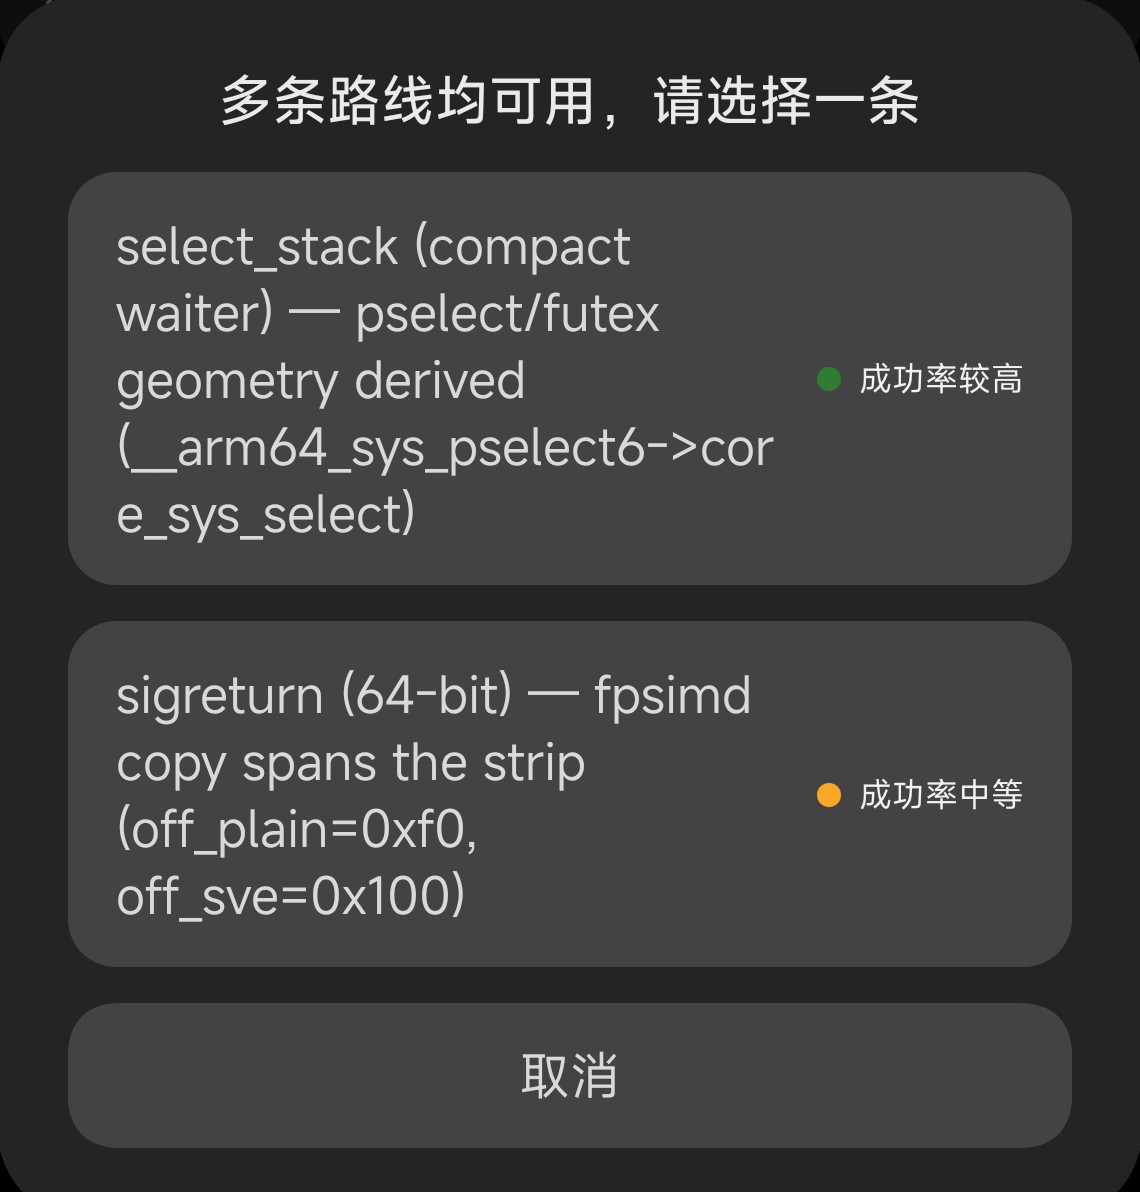
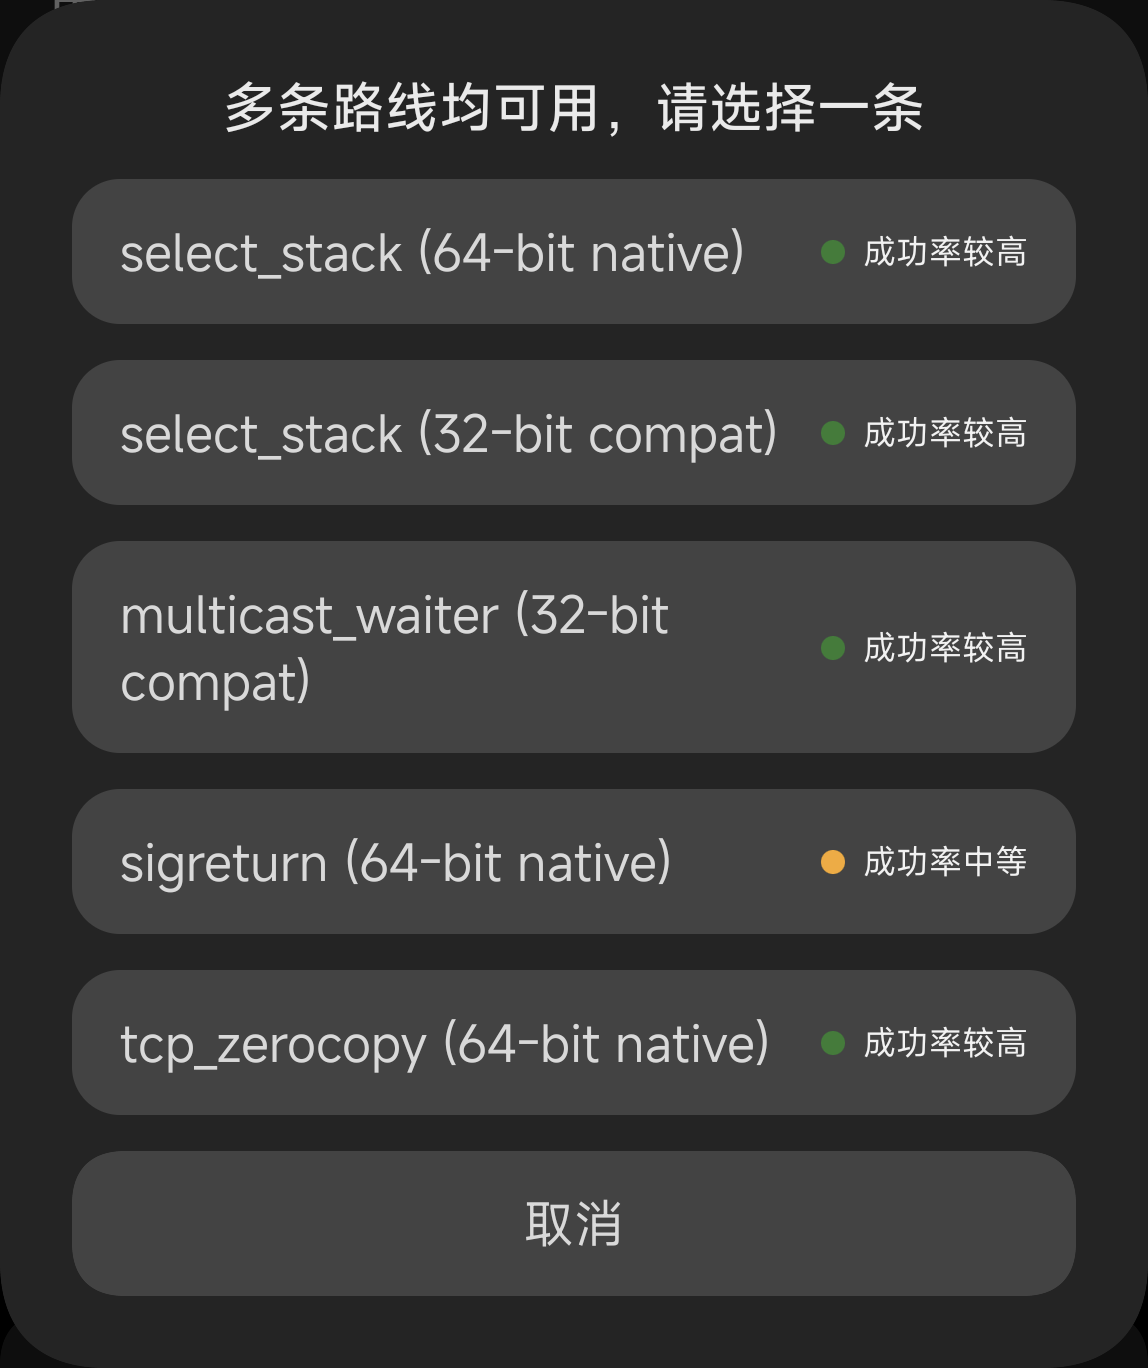
feat(ui): pin a route option to route + carrier; refresh the README
The picker row was `route (waiter shape) — <long derivation reason>`. On a
6.1.138 image (four feasible routes, five rows) the dialog overflowed and
`sigreturn` / `tcp_zerocopy` were unreachable — the miuix OverlayDialog does
not scroll its content. An option is pinned by two fields only: the route and
its carrier, `64-bit native` or `32-bit compat`; the derivation reason moves
to the generation log. All five rows fit.

- RouteDisplay.optionLabel(route, carrier); the geometry/release-derived tags
  and the family helper are gone.
- showRouteDialog logs each option's reason ("result: option …").
- RouteDisplayTest rewritten for the two-field label and an unknown carrier.
- README (both languages): step 6 states the two fields and the route-level
  grade; the 05-route screenshots are recreated (ZH dark, EN light); the EN
  README is synced with the ZH diff (Samsung prerequisites, headings,
  acknowledgements).

Gates: :app:testDebugUnitTest 243/0, :app:assembleDebug build 749. Device:
duchamp 6.1.138, build 749 — five options visible, no clipping.

diff --git a/app/src/test/kotlin/com/ghostlock/app/ui/RouteDisplayTest.kt b/app/src/test/kotlin/com/ghostlock/app/ui/RouteDisplayTest.kt
@@ -5,60 +5,36 @@ import org.junit.Assert.assertNull
 import org.junit.Test
 
 class RouteDisplayTest {
-    private val select236 = "5.10.236-android12-9-00003-gfb24cf99ad97-ab14313284"
-    private val select66 = "6.6.66-android15-8-g29d86c5fc9dd-abogki428889875-4k"
-    private val compat81 = "5.10.81-android12-9-00001-g6cd504626bae-ab8485363"
-    private val tcp61 = "6.1.138-android14-11-g44bda9e8f6e9-ab13792638"
-
     @Test
-    fun `select labels its waiter shape inline`() {
-        val compact = mapOf("waiter_shift" to -2L, "compact_waiter" to 1L)
+    fun `an option label is the route and its carrier, and nothing else`() {
         assertEquals(
-            "select_stack (compact waiter)",
-            RouteDisplay.label("select_stack", compact, select236),
+            "select_stack (64-bit native)",
+            RouteDisplay.optionLabel("select_stack", "native"),
         )
         assertEquals(
-            "select_stack (rb_node waiter)",
-            RouteDisplay.label("select_stack", mapOf("waiter_shift" to -2L), select66),
+            "select_stack (32-bit compat)",
+            RouteDisplay.optionLabel("select_stack", "compat"),
+        )
+        assertEquals(
+            "multicast_waiter (32-bit compat)",
+            RouteDisplay.optionLabel("multicast_waiter", "compat"),
+        )
+        assertEquals(
+            "sigreturn (64-bit native)",
+            RouteDisplay.optionLabel("sigreturn", "native"),
+        )
+        assertEquals(
+            "tcp_zerocopy (64-bit native)",
+            RouteDisplay.optionLabel("tcp_zerocopy", "native"),
         )
     }
 
+    /** The display never invents or hides a carrier the superset accepted. */
     @Test
-    fun `compat is a 32-bit tag, not a spelling of compact`() {
-        val geometry = mapOf(
-            "compat_carrier" to 1L,
-            "waiter_home" to 432L,
-            "select_dst_depth" to 480L,
-            "compact_waiter" to 1L,
-        )
+    fun `an unknown carrier is shown verbatim`() {
         assertEquals(
-            "select_stack (32-bit compat, compact waiter)",
-            RouteDisplay.label("select_stack", geometry, compat81),
-        )
-        // Compact alone never produces the compat tag.
-        assertEquals(
-            "select_stack (compact waiter)",
-            RouteDisplay.label(
-                "select_stack",
-                mapOf("compact_waiter" to 1L),
-                select236,
-            ),
-        )
-    }
-
-    @Test
-    fun `tcp, multicast and sigreturn carry their shape`() {
-        assertEquals(
-            "tcp_zerocopy (compact waiter)",
-            RouteDisplay.label("tcp_zerocopy", mapOf("compact_waiter" to 1L), tcp61),
-        )
-        assertEquals(
-            "multicast_waiter (compact waiter)",
-            RouteDisplay.label("multicast_waiter", mapOf("compact_waiter" to 1L), "5.10.246-gki"),
-        )
-        assertEquals(
-            "sigreturn (64-bit)",
-            RouteDisplay.label("sigreturn", mapOf("waiter_off_plain" to 320L), compat81),
+            "select_stack (future-carrier)",
+            RouteDisplay.optionLabel("select_stack", "future-carrier"),
         )
     }
 

diff --git a/app/src/main/kotlin/com/ghostlock/app/ui/RouteDisplay.kt b/app/src/main/kotlin/com/ghostlock/app/ui/RouteDisplay.kt
@@ -1,34 +1,28 @@
 package com.ghostlock.app.ui
 
 /**
- * Route-picker presentation. Two independent axes are shown inline after the
- * route name:
+ * Route-picker presentation. An option is pinned by exactly two fields: the
+ * route and its carrier. Everything else (the waiter shape, the anchor plan,
+ * the derived geometry) is detail — it stays in the generation log, not in a
+ * row that must also stay readable on a phone.
  *
- * - the waiter shape (`compact_waiter`): the flat waiter that fits the select
- *   fd_set table (5.x and android14-6.1) vs the rb_node shape (6.6/6.12);
- * - the ABI (`compat_carrier`): the armv7 helper's 32-bit `_newselect` park.
- *
- * They are not the same thing and a profile carries both keys independently.
- * "compact" is a waiter layout, never 32-bit; "compat" is the 32-bit route.
- *
- * Grades are a route-level mechanism hint, never a per-kernel claim: the
- * kernel build decides feasibility and geometry (the verdict covers both), and
- * does not change a route's delivery mechanism.
+ * The carrier is the superset's own field: `native` is the 64-bit in-process
+ * carrier, `compat` the armv7 helper's 32-bit one. Grades are a route-level
+ * mechanism hint, never a per-kernel or per-carrier claim: the kernel build
+ * decides feasibility and geometry (the verdict covers both), and does not
+ * change a route's delivery mechanism.
  */
 object RouteDisplay {
-    private const val COMPACT = "compact_waiter"
-    private const val COMPAT = "compat_carrier"
+    /** Two fields, nothing else: `<route> (<carrier>)`. */
+    fun optionLabel(route: String, carrier: String): String =
+        "$route (${carrierLabel(carrier)})"
 
-    fun label(route: String, geometry: Map<String, Long>, release: String?): String {
-        val tags = mutableListOf<String>()
-        if ((geometry[COMPAT] ?: 0L) != 0L) tags += "32-bit compat"
-        when {
-            (geometry[COMPACT] ?: 0L) != 0L -> tags += "compact waiter"
-            route == "select_stack" && familyOf(release) in NON_COMPACT_FAMILIES ->
-                tags += "rb_node waiter"
-        }
-        if (route == "sigreturn") tags += "64-bit"
-        return if (tags.isEmpty()) route else "$route (${tags.joinToString(", ")})"
+    private fun carrierLabel(carrier: String): String = when (carrier) {
+        "native" -> "64-bit native"
+        "compat" -> "32-bit compat"
+        /* An unknown carrier fails open in display only: the option was already
+         * accepted by the superset's feasibility check. */
+        else -> carrier
     }
 
     /**
@@ -47,12 +41,5 @@ object RouteDisplay {
         // reboots); the route-level rate is measured and the failures are real.
         "sigreturn" -> RouteGrade.Medium
         else -> null
-    }
-
-    private val NON_COMPACT_FAMILIES = setOf("6.6", "6.12")
-
-    private fun familyOf(release: String?): String? {
-        val parts = release?.split('.') ?: return null
-        return if (parts.size >= 2) "${parts[0]}.${parts[1]}" else null
     }
 }

diff --git a/app/src/main/kotlin/com/ghostlock/app/ui/GhostlockViewModel.kt b/app/src/main/kotlin/com/ghostlock/app/ui/GhostlockViewModel.kt
@@ -2029,13 +2029,21 @@ class GhostlockViewModel(
         pendingRouteChoices = choices
         pendingRouteOptions = options
         parseDialogStage = ParseDialogStage.Route
+        /* The row is two fields — route and carrier — and nothing else. The
+         * derivation reason is technical detail for the generation log. */
+        choices.forEach { choice ->
+            appendLog(
+                "result: option ${RouteDisplay.optionLabel(choice.route, choice.carrier)}" +
+                    " — ${choice.reason}",
+            )
+        }
         mutableState.update {
             it.copy(
                 dialogVisible = true,
                 dialogType = DialogType.LIST,
                 dialogTitleRes = R.string.parse_route_title,
                 dialogItems = choices.map { choice ->
-                    "${RouteDisplay.label(choice.route, choice.geometry, options?.release)} — ${choice.reason}"
+                    RouteDisplay.optionLabel(choice.route, choice.carrier)
                 },
                 dialogItemResIds = emptyList(),
                 dialogItemGrades = choices.map { choice -> RouteDisplay.grade(choice.route) },

diff --git a/README.md b/README.md
@@ -2,7 +2,8 @@
 
 > 中文: [README_ZH.md](README_ZH.md)
 
-Temporary root for Android kernels that have not yet patched CVE-2026-43499.
+Temporary root for Android kernels that have not yet patched CVE-2026-43499. **Samsung phones must
+also be unpatched for CVE-2026-43284.**
 
 This repository is a fork of [YuKongA/ghostlock-app](https://github.com/YuKongA/ghostlock-app).
 **This branch rebuilds the parts of the pipeline that decide whether a generated profile is
@@ -37,10 +38,6 @@ the real device or in the emulator. The full list is in [`docs/DESIGN.md`](docs/
 
 ## Root success rate
 
-Measured on real phones, one run per fresh boot. The tables were measured with the r11
-release-candidate build and are split into two groups by how much a run depends on a page. When the
-same phone, kernel and route appear on two rows, the two rows are the two carriers of that route.
-
 **Fully page-free**
 
 | Phone | Kernel | Route | Completed | Typical time | Measured |
@@ -72,12 +69,14 @@ same phone, kernel and route appear on two rows, the two rows are the two carrie
 > **You use this app entirely at your own risk.**
 
 - Android 12 or newer.
-- The kernel and its security patch level are not yet patched for CVE-2026-43499.
+- The kernel and its security patch level are not yet patched for CVE-2026-43499. **Samsung phones
+  must also be unpatched for CVE-2026-43284.**
 - A KernelSU-family root manager is installed first: KernelSU, KernelSU-Next, BakaSU (formerly
   ReSukiSU), KowSU, or SukiSU Ultra. Each manager gained temporary-root support in a different
-  version; use the newest one you can.
+  version; use the newest one you can. **Samsung phones must use
+  [this manager](https://github.com/diabl0w/KernelSU).**
 
-## Supported devices
+## Device support
 
 Support is organized by **kernel family**, not by phone model or by a list of individual builds:
 
@@ -127,10 +126,11 @@ Kernels outside these families have no derivation template and are currently out
 
    <img src="docs/images/profile-generation/en/04-physical.png" width="420" alt="The xbl_config prompt on a Qualcomm phone">
 
-6. If the app asks **Multiple routes are available — choose one**, pick from the row descriptions.
-   A route that also has a 32-bit layout appears twice, tagged `64-bit` and `32-bit compat`. The
-   grade on the right is about the route and that choice, not about your kernel; it reads **not
-   measured** when there is no evidence:
+6. If the app asks **Multiple routes are available — choose one**, pick from the rows. Each option
+   is two fields — the route and its carrier. A route that also has a 32-bit layout appears twice,
+   tagged `64-bit native` and `32-bit compat`. The grade on the right is the route's mechanism
+   hint, not a prediction for your kernel or carrier; it reads **not measured** when there is no
+   evidence:
 
    <img src="docs/images/profile-generation/en/05-route.png" width="420" alt="Route selection">
 
@@ -155,7 +155,7 @@ Kernels outside these families have no derivation template and are currently out
 - **Export the log** and attach it to the issue, together with the profile-generation log and the
   attack-run log.
 
-## Why the success rate is higher
+## How we improve the success rate
 
 An exploit has many steps, and a mistake in any one of them lowers the success rate of the whole
 chain. This branch optimizes the following steps:
@@ -184,11 +184,14 @@ chain. This branch optimizes the following steps:
 ## Acknowledgements
 
 This repository is a fork of [YuKongA/ghostlock-app](https://github.com/YuKongA/ghostlock-app),
-Apache License 2.0. Upstream in turn credits:
+with the optional DirtyFrag route adapted from
+[diabl0w/DFRoot](https://github.com/diabl0w/DFRoot), Apache License 2.0. Upstream in turn credits:
 
 - [NebuSec/CyberMeowfia](https://github.com/NebuSec/CyberMeowfia)
 - [JoinChang/ghostlock-oneplus](https://github.com/JoinChang/ghostlock-oneplus)
 - [x-spy/CVE-2026-43499-popsicle](https://github.com/x-spy/CVE-2026-43499-popsicle)
+- [lsposed/lspromise](https://github.com/lsposed/lspromise)
+- [combeng6th/DirtyInit](https://github.com/combeng6th/DirtyInit)
 
 The app also uses [miuix](https://github.com/compose-miuix-ui/miuix),
 [Shizuku](https://github.com/RikkaApps/Shizuku),

diff --git a/README_ZH.md b/README_ZH.md
@@ -2,7 +2,7 @@
 
 > English: [README.md](README.md)
 
-为尚未修补 CVE-2026-43499 漏洞的安卓内核提供临时 root。
+为尚未修补 CVE-2026-43499 漏洞的安卓内核提供临时 root。**三星手机需要同时未修补 CVE-2026-43284。**
 
 本仓库是 [YuKongA/ghostlock-app](https://github.com/YuKongA/ghostlock-app) 的分支。
 **本分支新增3条路线，并优化了决定配置文件导出准确性和漏洞利用成功率的关键部分**。
@@ -29,9 +29,6 @@
 测试使用40+个内核，全部准确生成配置文件，与实机/模拟器结果完全相同。具体清单见[`docs/DESIGN_ZH.md`](docs/DESIGN_ZH.md)。
 
 ## root成功率
-
-在真机上测量，每次重启只跑一次。
-下表使用 r11 候选构建测得，按是否使用页面分为两组。同一手机/内核/路线出现两行时，是同一路线的两种实现方式。
 
 **完全免页面**
 
@@ -61,10 +58,10 @@
 > **使用本 App 的一切风险由使用者自行承担。**
 
 - 系统为Android 12 或更高。
-- 内核及安全补丁尚未修补 CVE-2026-43499 漏洞。
-- 提前安装下列 root 管理器之一：KernelSU、KernelSU-Next、BakaSU（曾是ReSukiSU）、KowSU 或 SukiSU Ultra。每个管理器支持临时 root 的首个版本各不相同，尽可能下载新版。
+- 内核及安全补丁尚未修补 CVE-2026-43499 漏洞。**三星手机需要同时满足未修补 CVE-2026-43284。**
+- 提前安装下列 root 管理器之一：KernelSU、KernelSU-Next、BakaSU（曾是ReSukiSU）、KowSU 或 SukiSU Ultra。每个管理器支持临时 root 的首个版本各不相同，尽可能下载新版。**三星手机只能使用**[这个管理器](https://github.com/diabl0w/KernelSU)。
 
-## 支持的设备
+## 设备支持
 
 支持按内核家族划分，不按机型或具体构建逐一列举：
 
@@ -104,7 +101,7 @@
 
    <img src="docs/images/profile-generation/04-physical.png" width="420" alt="高通机型的 xbl_config 提示">
 
-6. 如果 App 询问 **多条路线均可用，请选择一条**，按行内说明选择。同一路线如果有 32 位布局，会分两行显示，分别标注 `64-bit` 与 `32-bit compat`；右侧是**该路线与这一选择**的建议等级（与内核型号无关），没有依据时显示“未测量”：
+6. 如果 App 询问 **多条路线均可用，请选择一条**，按行内说明选择。每个选项只有两项：路线与实现方式。同一路线如果有 32 位布局，会分两行显示，分别标注 `64-bit native` 与 `32-bit compat`；右侧是**该路线机制**的建议等级（与内核型号和实现方式无关），没有依据时显示“未测量”：
 
    <img src="docs/images/profile-generation/05-route.png" width="420" alt="路线选择">
 
@@ -127,7 +124,7 @@
 - **看方案、路线与 64/32 位选择**（如果 App 询问过）每个选项都有可能产生不同的成功率。
 - **导出日志** 并附在 issue 中。同时提交配置文件生成的日志和执行攻击的日志。
 
-## 成功率改善的原理
+## 我们如何改善成功率
 
 漏洞利用有很多环节，每个环节的失误都会降低全链路成功率。这个分支优化了以下环节：
 
@@ -146,12 +143,14 @@
 
 ## 致谢
 
-本仓库是 [YuKongA/ghostlock-app](https://github.com/YuKongA/ghostlock-app) 的分支，
+本仓库是 [YuKongA/ghostlock-app](https://github.com/YuKongA/ghostlock-app) 的分支，可选的DirtyFrag路线参考自 [diabl0w/DFRoot](https://github.com/diabl0w/DFRoot)，
 采用 Apache License 2.0。上游另致谢：
 
 - [NebuSec/CyberMeowfia](https://github.com/NebuSec/CyberMeowfia)
 - [JoinChang/ghostlock-oneplus](https://github.com/JoinChang/ghostlock-oneplus)
 - [x-spy/CVE-2026-43499-popsicle](https://github.com/x-spy/CVE-2026-43499-popsicle)
+- [lsposed/lspromise](https://github.com/lsposed/lspromise)
+- [combeng6th/DirtyInit](https://github.com/combeng6th/DirtyInit)
 
 App 还使用了 [miuix](https://github.com/compose-miuix-ui/miuix)、
 [Shizuku](https://github.com/RikkaApps/Shizuku)、
